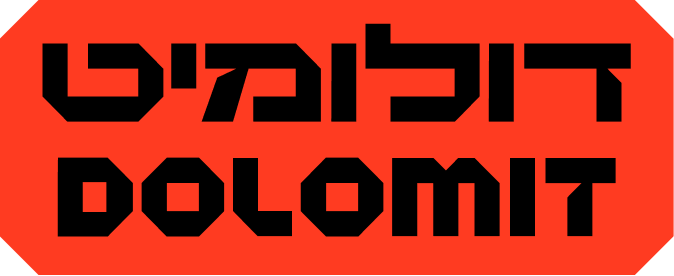
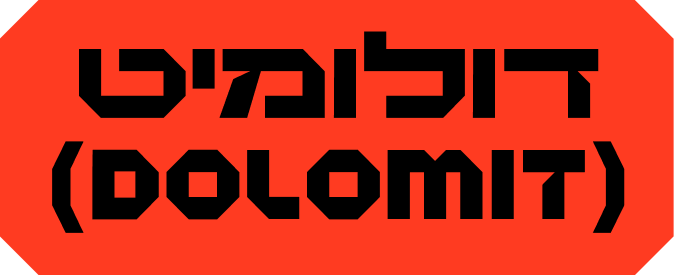
Dolomit: (DOLOMIT) in brackets on the cover; new homepage tile images

diff --git a/dolomit-demo-ss.html b/dolomit-demo-ss.html
@@ -371,10 +371,10 @@
       --preview-vertical-offset: 9px;
     }
 
-    /* Cover title: דולומיט in Bold over (DOLOMIT) in Bold Extended (Hebrew first, Nir 09-12).
+    /* Cover title: דולומיט in Bold Extended over (DOLOMIT) in Bold, same size (Nir 09-13).
        Sizes are in vw so both lines fill the cover width at any screen size (capped by vh on short screens). */
     body.dolomit-page .cover-title {
-      --cover-size: min(16.5vw, 28vh);
+      --cover-size: min(15vw, 26vh);
       margin-bottom: 0px;
       text-align: center;
     }
@@ -1041,7 +1041,7 @@
       if (typeof loadHeader === 'function') {
         loadHeader(`
           <div style="transform: translateY(0px);">דולומיט</div>
-          <div style="transform: translateY(0px);">DOLOMIT</div>
+          <div style="transform: translateY(0px);">(DOLOMIT)</div>
         `);
       }
 });
